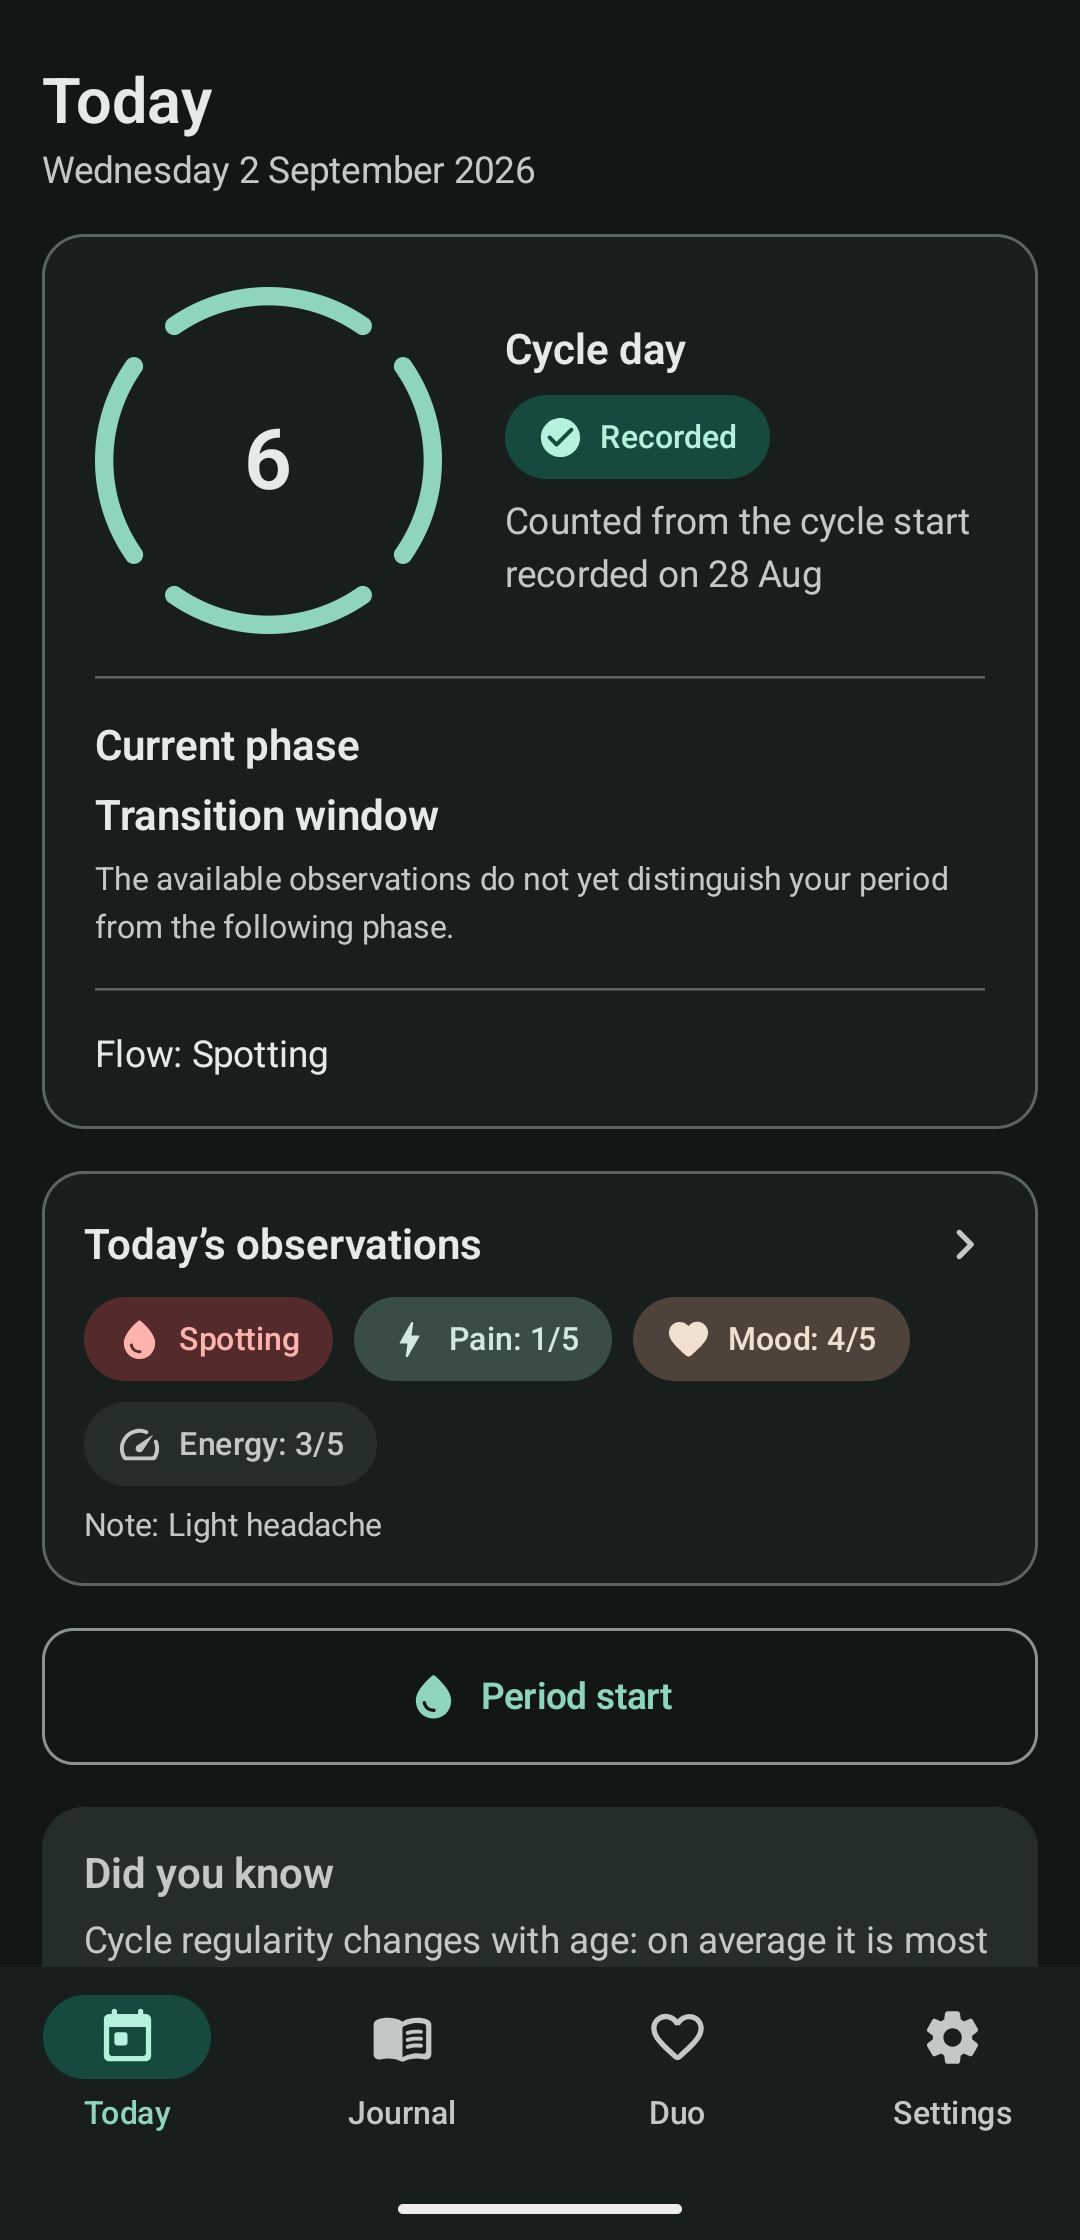
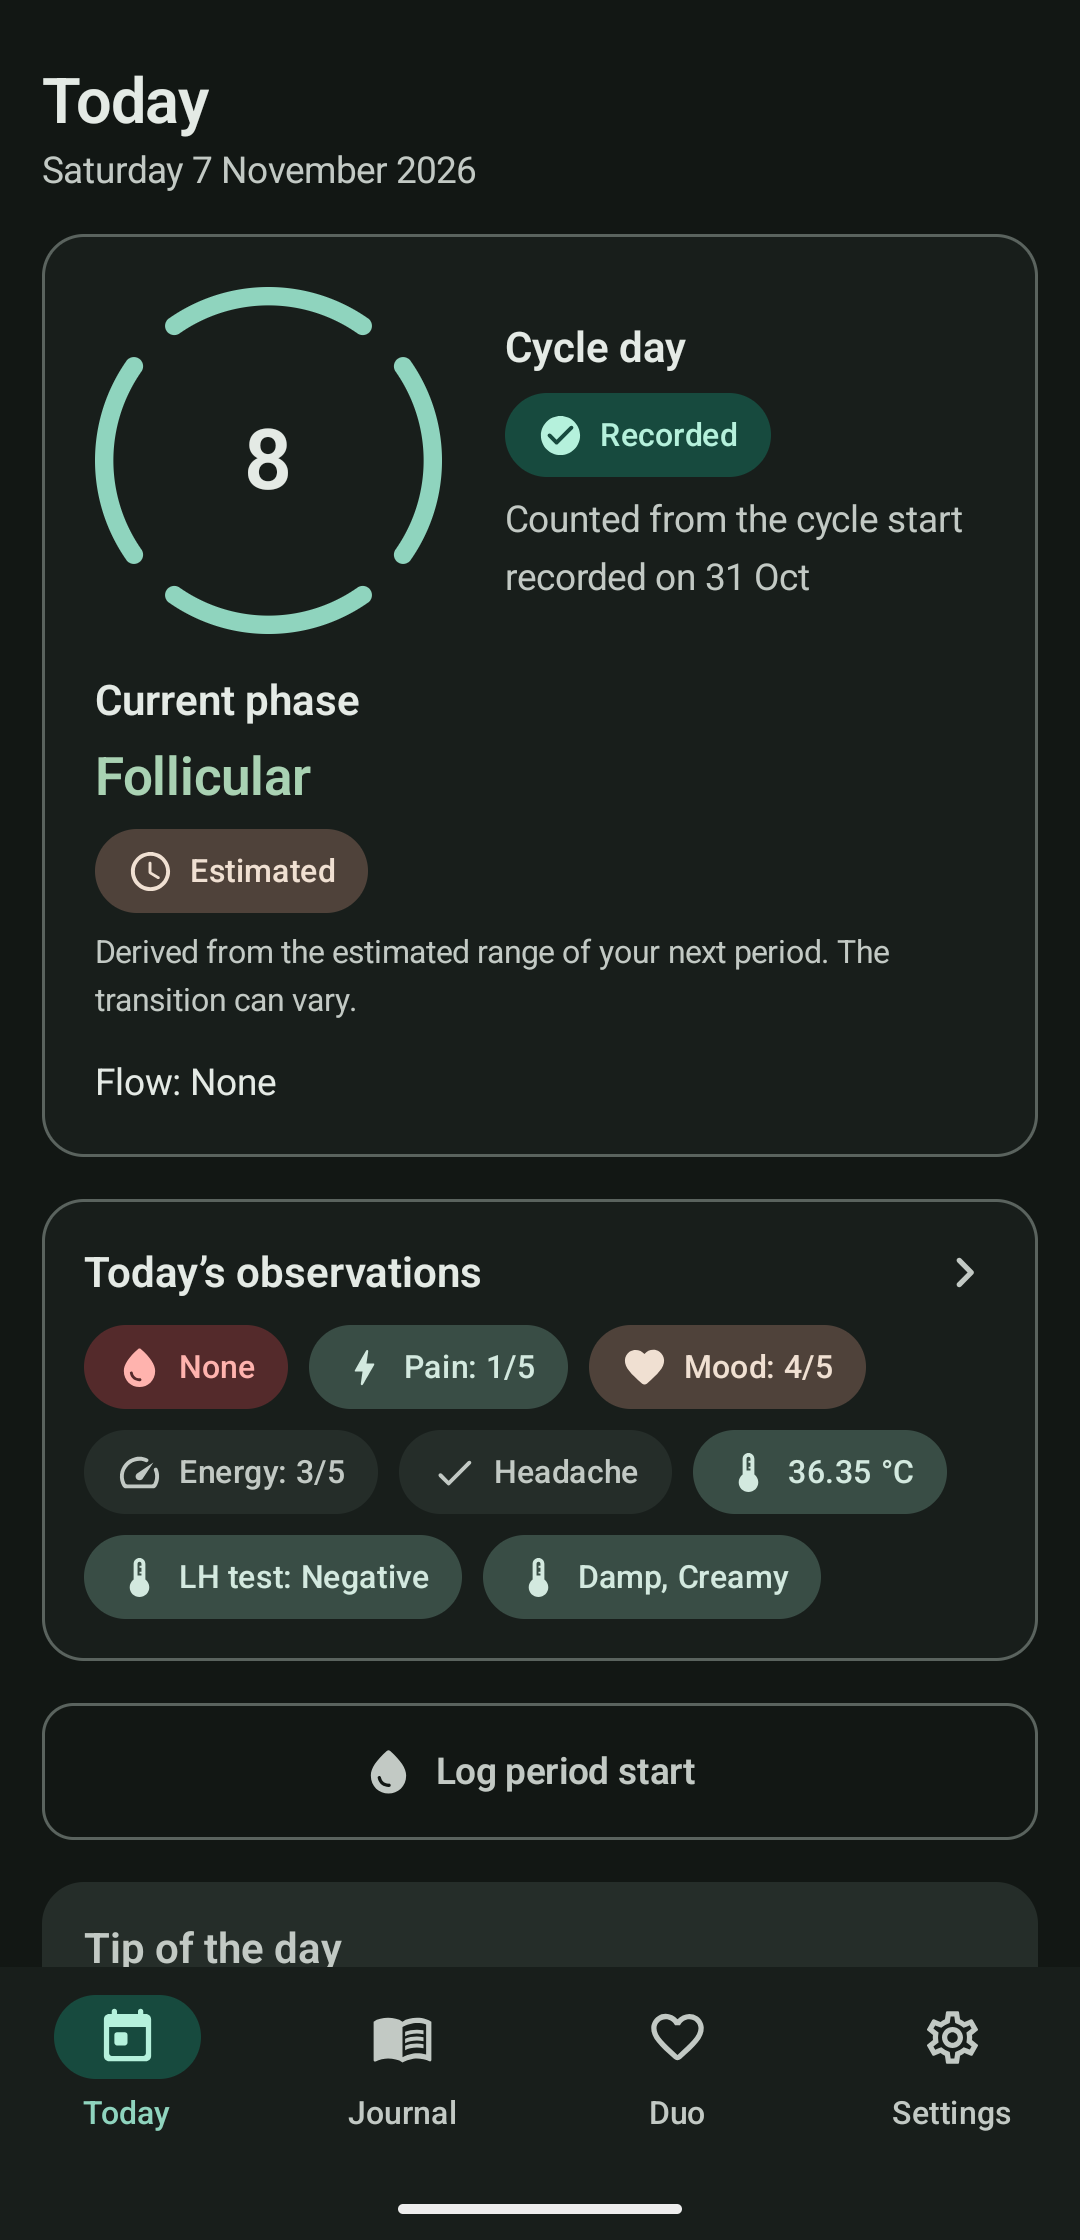
chore(release): prepare v1.9.0 (code 14) release and refresh store screenshots

diff --git a/app/src/main/java/fr/luteal/core/data/seed/TestDataSeeder.kt b/app/src/main/java/fr/luteal/core/data/seed/TestDataSeeder.kt
@@ -74,9 +74,9 @@ class TestDataSeederImpl @Inject constructor(
             )
         )
 
-        // Cycle 1: 58 days ago to 31 days ago (28 days)
-        val cycle1Start = anchorDate.minusDays(58)
-        val cycle1End = anchorDate.minusDays(31)
+        // Cycle 1: 60 days ago to 33 days ago (28 days)
+        val cycle1Start = anchorDate.minusDays(60)
+        val cycle1End = anchorDate.minusDays(33)
         val cycle1PeriodDays = listOf(
             PeriodDay(cycle1Start, BleedingIntensity.HEAVY, "Premières règles"),
             PeriodDay(cycle1Start.plusDays(1), BleedingIntensity.MEDIUM),
@@ -92,9 +92,9 @@ class TestDataSeederImpl @Inject constructor(
             lutealPhaseLengthDays = 14
         )
 
-        // Cycle 2: 30 days ago to 6 days ago (25 days)
-        val cycle2Start = anchorDate.minusDays(30)
-        val cycle2End = anchorDate.minusDays(6)
+        // Cycle 2: 32 days ago to 8 days ago (25 days)
+        val cycle2Start = anchorDate.minusDays(32)
+        val cycle2End = anchorDate.minusDays(8)
         val cycle2PeriodDays = listOf(
             PeriodDay(cycle2Start, BleedingIntensity.HEAVY, "Début du cycle"),
             PeriodDay(cycle2Start.plusDays(1), BleedingIntensity.HEAVY),
@@ -111,13 +111,14 @@ class TestDataSeederImpl @Inject constructor(
             lutealPhaseLengthDays = 14
         )
 
-        // Cycle 3: 5 days ago to present (ongoing)
-        val cycle3Start = anchorDate.minusDays(5)
+        // Cycle 3: 7 days ago to present (ongoing, Day 8 = Follicular)
+        val cycle3Start = anchorDate.minusDays(7)
         val cycle3PeriodDays = listOf(
             PeriodDay(cycle3Start, BleedingIntensity.HEAVY, "Flux abondant"),
-            PeriodDay(cycle3Start.plusDays(1), BleedingIntensity.MEDIUM),
-            PeriodDay(cycle3Start.plusDays(2), BleedingIntensity.LIGHT),
-            PeriodDay(cycle3Start.plusDays(3), BleedingIntensity.SPOTTING)
+            PeriodDay(cycle3Start.plusDays(1), BleedingIntensity.HEAVY),
+            PeriodDay(cycle3Start.plusDays(2), BleedingIntensity.MEDIUM),
+            PeriodDay(cycle3Start.plusDays(3), BleedingIntensity.LIGHT),
+            PeriodDay(cycle3Start.plusDays(4), BleedingIntensity.SPOTTING)
         )
         val cycle3Entity = CycleEntity(
             id = UUID.randomUUID().toString(),
@@ -360,9 +361,12 @@ class TestDataSeederImpl @Inject constructor(
             DuoWidgetCacheEntity(
                 linkId = linkId,
                 role = "PARTNER",
-                cycleDay = 6,
-                estimateStart = anchorDate.plusDays(15).toString(),
-                estimateEnd = anchorDate.plusDays(17).toString(),
+                cycleDay = 8,
+                estimateStart = anchorDate.plusDays(18).toString(),
+                estimateEnd = anchorDate.plusDays(22).toString(),
+                estimateCentral = anchorDate.plusDays(20).toString(),
+                estimateCycleCount = 2,
+                estimateVariabilityDays = 3,
                 cycleDayGranted = true,
                 estimateGranted = true,
                 status = "ACTIVE",

diff --git a/app/src/main/java/fr/luteal/app/navigation/TodayScreen.kt b/app/src/main/java/fr/luteal/app/navigation/TodayScreen.kt
@@ -980,8 +980,8 @@ private fun phaseIndeterminateSupport(reason: PhaseIndeterminateReason): String 
 )
 
 @Composable
-internal fun ScreenHeader(title: String, subtitle: String) {
-    Column(verticalArrangement = Arrangement.spacedBy(LutealSpacing.xxs)) {
+internal fun ScreenHeader(title: String, subtitle: String, modifier: Modifier = Modifier) {
+    Column(modifier = modifier, verticalArrangement = Arrangement.spacedBy(LutealSpacing.xxs)) {
         Text(text = title, style = MaterialTheme.typography.headlineMedium)
         Text(
             text = subtitle,

diff --git a/app/src/main/java/fr/luteal/app/navigation/JournalScreen.kt b/app/src/main/java/fr/luteal/app/navigation/JournalScreen.kt
@@ -269,7 +269,8 @@ fun JournalScreen(
             ) {
                 ScreenHeader(
                     title = stringResource(R.string.journal_title),
-                    subtitle = stringResource(R.string.journal_subtitle)
+                    subtitle = stringResource(R.string.journal_subtitle),
+                    modifier = Modifier.weight(1f)
                 )
                 IconButton(onClick = { showReportDialog = true }) {
                     Icon(
